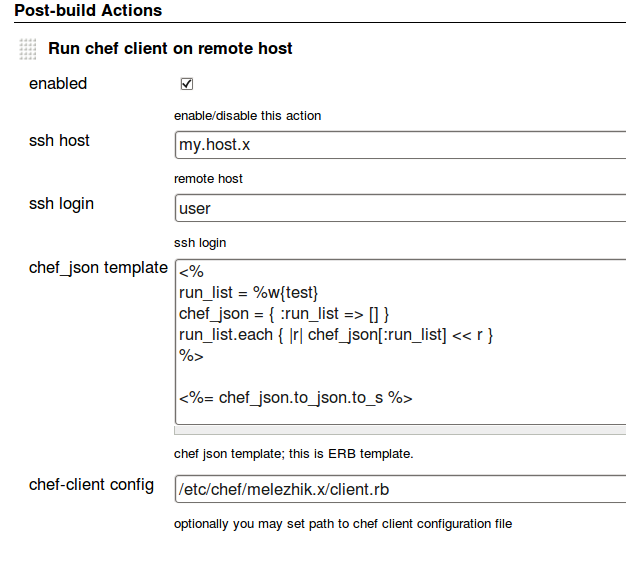
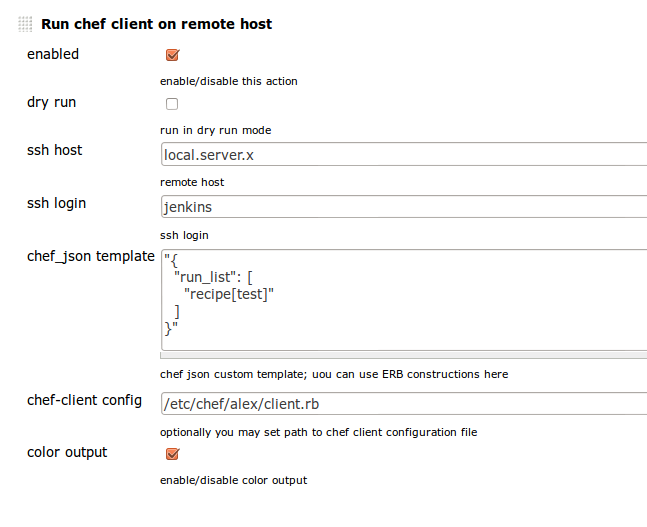
update-doc

Changed region(s): [[0.0, 0.0, 1.0, 0.9412], [0.0304, 0.334, 0.1518, 0.3947], [0.0304, 0.2429, 0.1518, 0.3036]]

diff --git a/views/chef_builder/help.html b/views/chef_builder/help.html
@@ -1,3 +1,57 @@
-<p>
-  run chef client on remote host
-</p>
+<?xml version="1.0" encoding="utf-8"?>
+<!DOCTYPE html PUBLIC
+    "-//W3C//DTD XHTML 1.1 plus MathML 2.0 plus SVG 1.1//EN"
+    "http://www.w3.org/2002/04/xhtml-math-svg/xhtml-math-svg.dtd">
+<html xml:lang='en' xmlns='http://www.w3.org/1999/xhtml' xmlns:svg='http://www.w3.org/2000/svg'>
+<head><meta http-equiv='Content-type' content='application/xhtml+xml;charset=utf-8' /><title></title></head>
+<body>
+<h1 id='perlplugin'>perl-plugin</h1>
+
+<p>This is jenkins plugin to run chef-client on remote host</p>
+
+<h1 id='what_it_does'>what it does</h1>
+
+<p>1) Connect to remote host with gien ssh login using ssh public-key authentication schema. 2) Run chef-client on this host with chef json file generated from template.</p>
+
+<h1 id='features'>features</h1>
+
+<ul>
+<li>chef json file generated from custom ERB template</li>
+
+<li>ssh public-key authentication schema is used</li>
+
+<li>dry run mode</li>
+</ul>
+
+<h1 id='interface'>interface</h1>
+
+<h2 id='chef_builder'>chef_builder</h2>
+
+<p><img alt='layout' src='https://raw.github.com/melezhik/chef-plugin/master/images/layout.png' /></p>
+
+<h2 id='chef_json_custom_template'>chef json custom template</h2>
+
+<p>If you define one, chef_publisher will generate chef json file, based on the template.</p>
+
+<ul>
+<li>Check out chef <a href='http://wiki.opscode.com/display/chef/Setting+the+run_list+in+JSON+during+run+time'>wiki</a> to get know about chef json files.</li>
+
+<li>You can use <a href='http://www.stuartellis.eu/articles/erb/'>ERB</a> constructions here</li>
+</ul>
+
+<h1 id='prerequisites'>prerequisites</h1>
+
+<ul>
+<li>ssh client</li>
+</ul>
+
+<h1 id='environment_setup'>Environment setup</h1>
+
+<p>You can set environment variables via &#8220;Jenkins/Configuration/Global properties/Environment variables&#8221; interface to adjust plugin behaviour.</p>
+
+<h2 id='lc_all'>LC_ALL</h2>
+
+<p>Setup your standard encoding.</p>
+
+<pre><code>ru_RU.UTF-8</code></pre>
+</body></html>

diff --git a/README.md b/README.md
@@ -1,16 +1,16 @@
 # perl-plugin
 
-run chef-client remotely under Jenkins CI. 
-
-# fetaures
-- chef json file generated from custom ERB template
-- ssh public-key authentication schema is used
+This is jenkins plugin to run chef-client on remote host
 
 # what it does
 
- 1) Connect to remote host with gien ssh login using ssh public-key authentication schema
- 2) Run chef-client on this host with chef json file generated from template
+ 1) Connect to remote host with gien ssh login using ssh public-key authentication schema.
+ 2) Run chef-client on this host with chef json file generated from template.
 
+# features
+- chef json file generated from custom ERB template
+- ssh public-key authentication schema is used
+- dry run mode
 
 # interface
 
